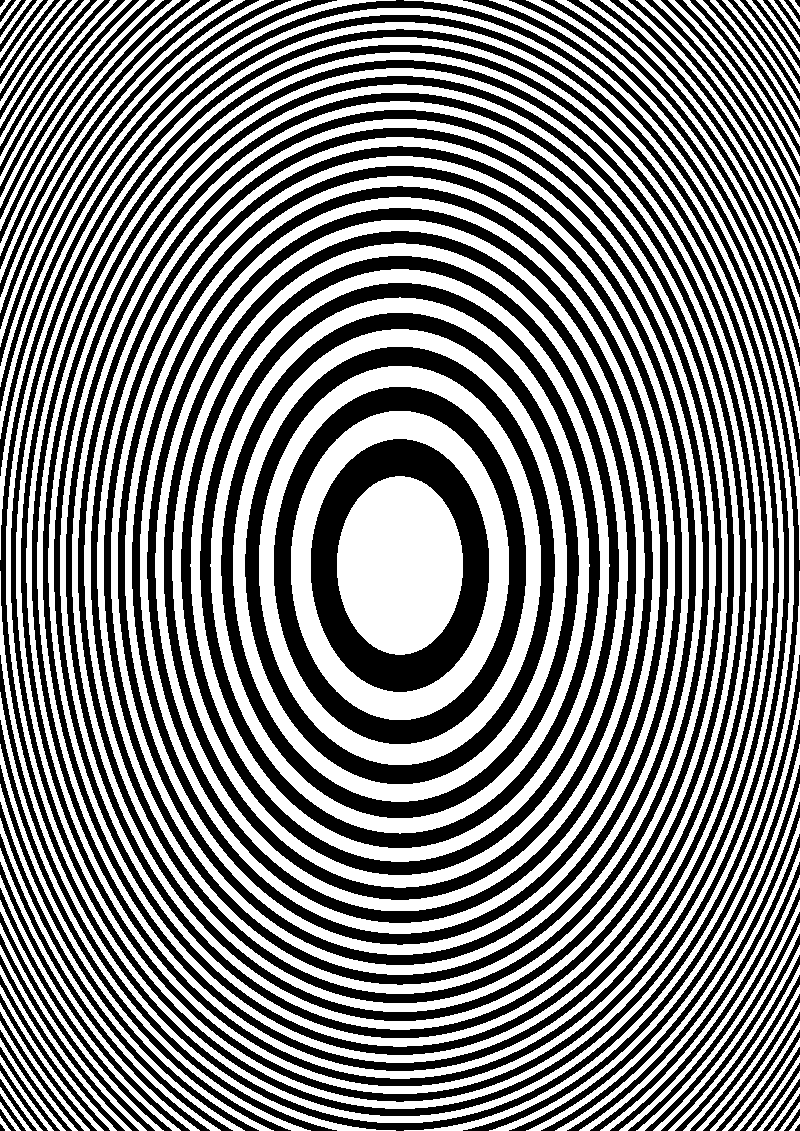
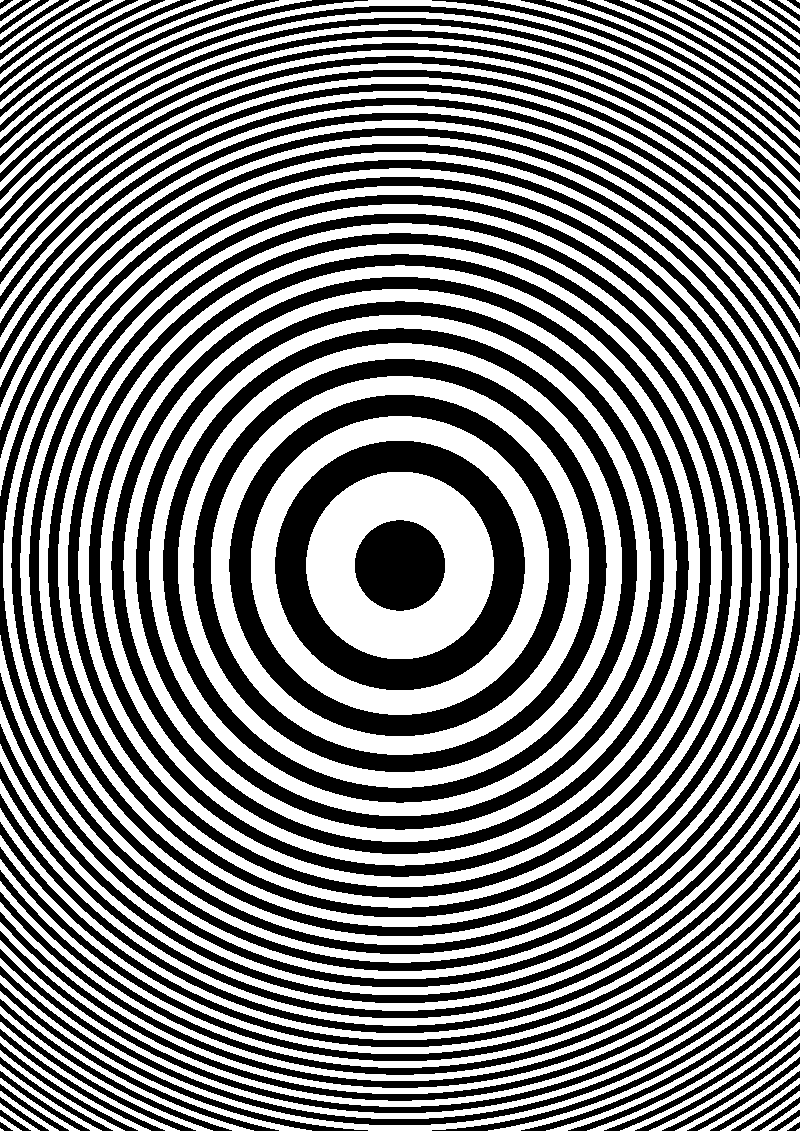
+

diff --git a/Kharitonov/W_func.m b/Kharitonov/W_func.m
@@ -1,20 +1,19 @@
-function  val = W_func( x, y, u, v, sigma, k, f )
+function  val = W_func( x, y, u, v, sigma, lam, f )
 %W_FUNCK Summary of this function goes here
 %   Detailed explanation goes here
-
-
-
 dxdy=(u(1,1)-u(1,2))*(v(1,1)-v(2,1));
 % direct way
-% difference=sqrt((x-u).^2+(y-v).^2+f^2);
-% val=1i*k/2/pi*sum(sum(exp(-(u.^2+v.^2)/2/sigma^2)*...
-%                                    exp(1i*pi*Bi(mod(k*sqrt(u.^2+v.^2+f^2),2*pi)))*...
-%                                    exp(difference)./difference))*dxdy;
-% simplified way
-difference=((x-u).^2+(y-v).^2);
+difference=sqrt((x-u).^2+(y-v).^2+f^2);
 
-val=1i*k/2/pi/f*sum(sum(exp(-(u.^2+v.^2)/2/sigma^2)*...
-                                     exp(1i*pi*Bi(mod(-k*(u.^2+v.^2)/2/f, 2*pi)))*...
-                                     exp(1i*k*difference)))*dxdy;
+% Bi(mod(Phi(u,v,f,lam),2*pi));
+% val=1i/lam*exp(-(u.^2+v.^2)/2/sigma^2).*exp(1i*pi*Phi(u,v,f,lam)).*exp(difference)./difference;
+% val=1i/lam*exp(-(u.^2+v.^2)/2/sigma^2).*exp(1i*pi*Bi(mod(Phi(u,v,f,lam),2*pi))).*exp(difference)./difference;
+
+val=1i/lam*exp(-(u.^2+v.^2)/2/sigma^2).*exp(-1i*2*pi/lam*sqrt(u.^2+v.^2+f^2)).*exp(1i*2*pi/lam*difference)./difference;
+
+
+% val=exp(1i*pi*Bi(mod(k*sqrt(u.^2+v.^2+f^2),2*pi))).*exp(difference)./difference;
+val=sum(sum(val))*dxdy;
+
 end
 

diff --git a/Kharitonov/run.m b/Kharitonov/run.m
@@ -1,27 +1,38 @@
 clear all; close all; clc;
-x=linspace(-0.025,0.025,4096);
+a = 0.005;
+
+% delta=40*10^-6;
+
+delta=2*10^-5;
+
+phiAngle=pi/4;
+
+focalLength=0.4;
+
+waveLength=10.6*10^-6;
+
+fclSptSize=waveLength*focalLength/a;
+
+pixels = floor(a/delta);
+
+x=linspace(-a/2,a/2,pixels);
+
+sigma=a/6;
 figure(1)
-lam=10^-5;
-theta=pi/4;
-% [ w ] = W_func_distrebution( x,x, 1, 10, 100 );
+
+[ w ] = W_func_distrebution( x,x,64,64, sigma, waveLength, focalLength );
 %  w  =lam/2/cos(theta)*Bi(mod(Phi(x*cos(theta),x,1,lam),2*pi));
- w  = Bi(mod(Phi(x*cos(theta),x,1,lam),2*pi));
+%  w  = Bi(mod(Phi(x*cos(theta),x,1,lam),2*pi));
 
 % w=mod(Phi(x*cos(theta),x,1,lam),2*pi);
 %  w=Phi(x*cos(theta),x,1,lam);
-imagesc(x,x,real(w));
+imagesc(x,x,w.*conj(w));
+hold on
+t=linspace(0,2*pi,100);
+plot(cos(t)*fclSptSize,sin(t)*fclSptSize,'r');
+
+hold off;
 colorbar;
 colormap gray;
-grid on;
-% set(gca,'xtick',[0 pi 2*pi]);
-% set(gca,'ytick',[0 pi 2*pi]);
-
+% grid on;
 axis equal;
-figure(2)
-plot(x,w(2048,:));
-grid on;
-
-cmap = [[0 0 0];[1 1 1]];
-
-imwrite(w+1,cmap,'lensLayout.png');
-imwrite(w+1,cmap,'lensLayout.bmp');

diff --git a/Kharitonov/W_func_distrebution.m b/Kharitonov/W_func_distrebution.m
@@ -1,11 +1,11 @@
-function [ w ] = W_func_distrebution( x,y, sigma, k, f  )
+function [ w ] = W_func_distrebution( x, y,n,m, sigma, lam, f  )
 %W_FUNC_DISTREBUTION Summary of this function goes here
 %   Detailed explanation goes here
-[u,v]=meshgrid(x,y);
-w=zeros(length(x),length(x));
+[u,v]=meshgrid(linspace(x(1),x(length(x)),n),linspace(y(1),y(length(y)),m));
+w=zeros(length(x),length(y));
 for i=1:length(x)
     for j=1:length(y)
-    w(i,j)=W_func( x(i), y(j), u, v, sigma, k, f );
+        w(i,j) = W_func( x(i), y(j), u, v, sigma, lam, f );
     end
 end
 

diff --git a/Kharitonov/Phi.m b/Kharitonov/Phi.m
@@ -1,8 +1,13 @@
 function [ z ] = Phi(x,y,f,lam)
 %PHI Summary of this function goes here
-%   Detailed explanation goes here
-[x,y]=meshgrid(x,y);
+%   Detailed explanation goes here\
 
+if (size(x,1)==1)||(size(x,2)==1)
+
+[x,y]=meshgrid(x,y);
+    
+end
+    
 k=2*pi/lam;
 
 z=-k*sqrt(x.^2 + y.^2 + f^2);
